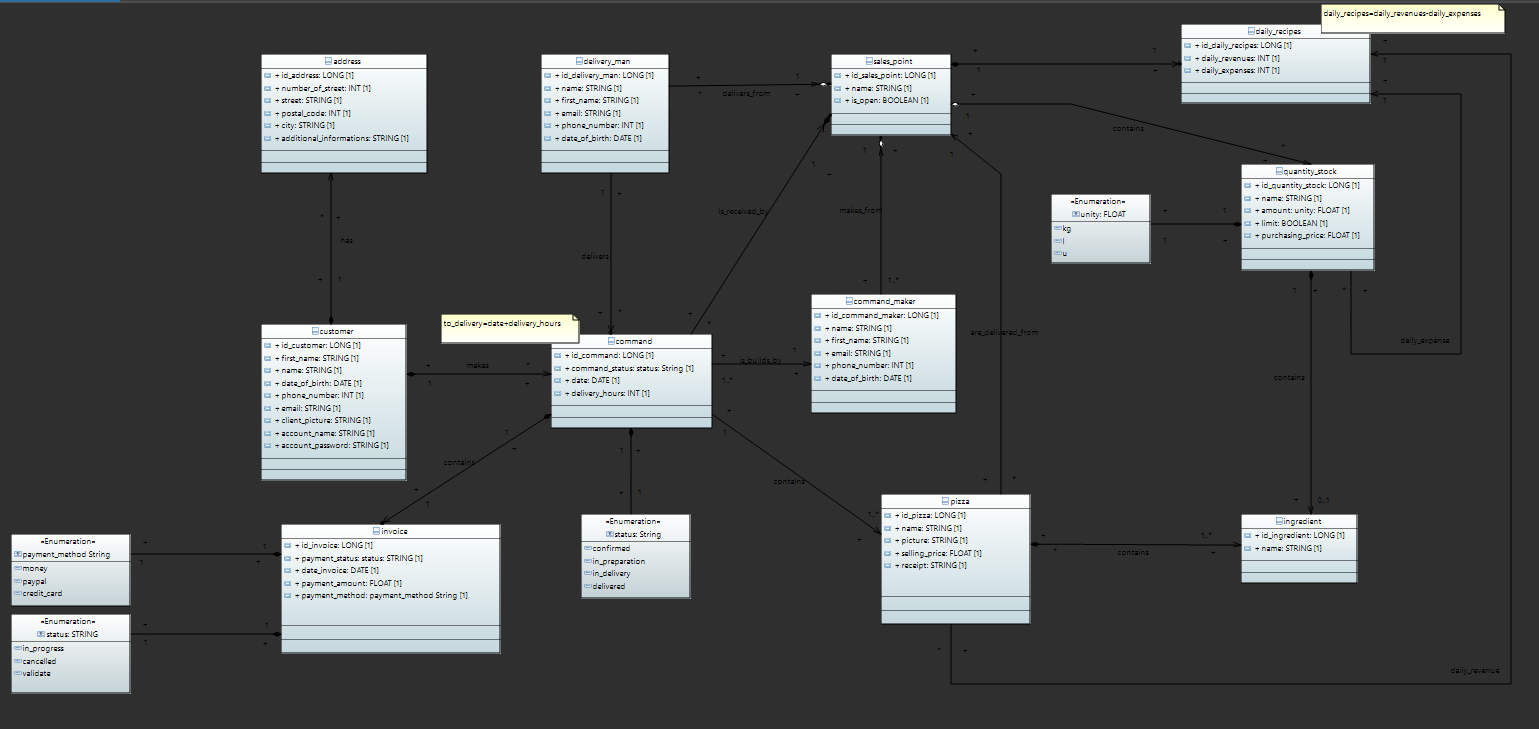
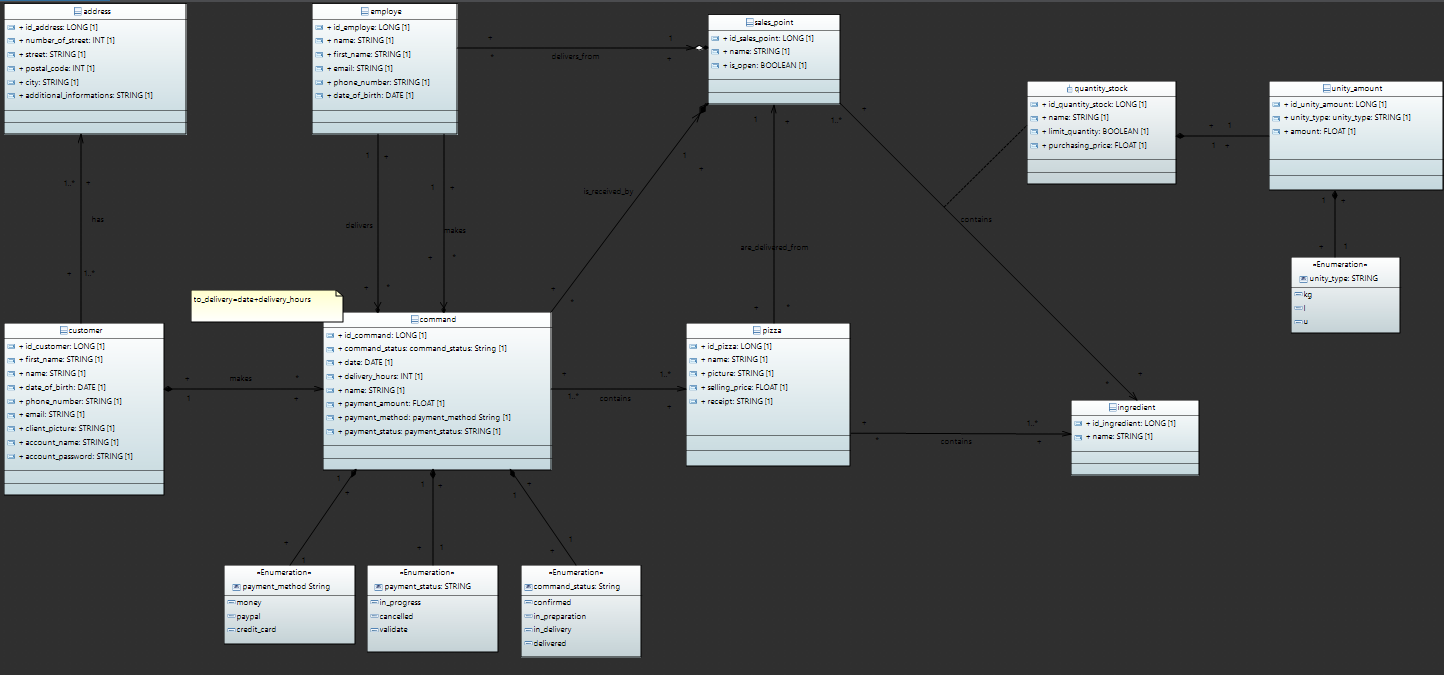
Modifying class diagram and realtional model (adding one table : daily_recipes) and the README file in consequences.

diff --git a/README.md b/README.md
@@ -51,17 +51,15 @@ The analysis of the functional domain involves the development of the class diag
 
 The system requires a number of other classes:
 - address: Adress of the customer.
+- employe: Employes of the pizzerias who made or deliver the pizzas for the customer.
 - command_status: Status of the command who permit the customer to follow his command.
-- invoice: Records payment information.
 - payment_method: List of all payment solutions accepted by the group's pizzerias.
 - payment_status: Status of payment.
 - pizza: Pizzas that can be ordered by the customer with their receipt.
 - ingredient: The list of ingredients needed to make a pizza.
 - quantity_stock: The inventory of ingredients available for each point of sale.
-- unity: List of unity types of the ingredients.
-- command_maker: Employes of the pizzerias who made the pizzas for the customer.
-- delivery_man: Employes of the pizzerias who deliver the pizzas at the address of the customer.
-- Daily_recipes: Daily revenues and expenses for each Sales point.
+- unity_amount: amount of the ingredients.
+- unity_type: Unity types of the ingredients.
 
 ![Class diagram](Technical_specifications/class_diagram.png)
 
